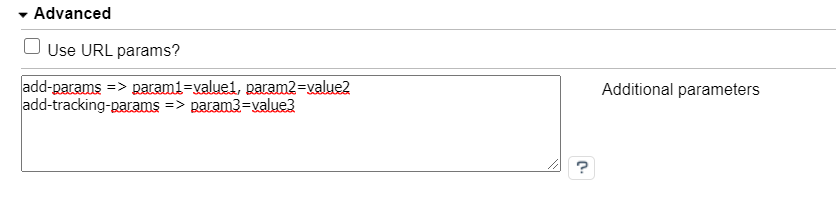
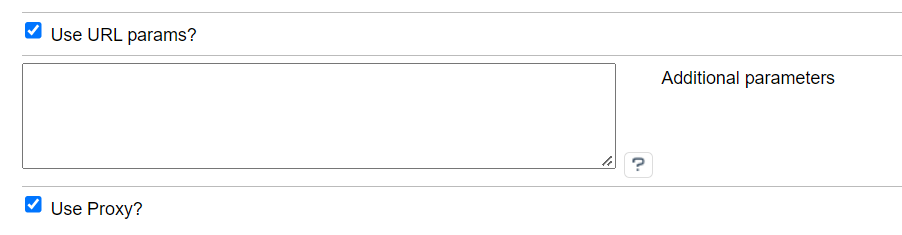
FFWEB-2400: proxy mechanism

diff --git a/src/Controller/SearchResultController.php b/src/Controller/SearchResultController.php
@@ -4,10 +4,94 @@ declare(strict_types=1);
 
 namespace Omikron\FactFinder\Oxid\Controller;
 
+use Exception;
+use Omikron\FactFinder\Communication\Client\ClientBuilder;
+use Omikron\FactFinder\Communication\Credentials;
 use OxidEsales\Eshop\Application\Controller\FrontendController;
+use OxidEsales\Eshop\Core\Registry;
+use Psr\Http\Message\ResponseInterface;
 
 class SearchResultController extends FrontendController
 {
     /** @var string */
     protected $_sThisTemplate = 'page/factfinder/result.tpl';
+
+    public function proxy(): void
+    {
+        $currentUrl = Registry::getUtilsUrl()->getCurrentUrl();
+        $endpoint   = $this->getEndpoint(Registry::getUtilsUrl()->getCurrentUrl());
+        $httpMethod = Registry::getUtilsServer()->getServerVar()['REQUEST_METHOD'];
+
+        try {
+            if (!$endpoint) {
+                throw new Exception('Endpoint missing');
+            }
+
+            $client = oxNew(ClientBuilder::class)
+                ->withServerUrl($this->getConfigParam('ffServerUrl'))
+                ->withCredentials($this->getCredentials())
+                ->withVersion($this->getConfigParam('ffApiVersion'))
+                ->build();
+
+            switch ($httpMethod) {
+                case 'GET':
+                    $query = (string) $this->removeOxidParams(parse_url($currentUrl, PHP_URL_QUERY));
+                    $this->showJsonAndExit($this->unwrapResponse($client->request('GET', $endpoint . '?' . $query)));
+
+                    break;
+                case 'POST':
+                    $this->showJsonAndExit($this->unwrapResponse($client->request('POST', $endpoint, [
+                        'body'    => $this->getRequest()->getContent(),
+                        'headers' => ['Content-Type' => 'application/json'],
+                    ])));
+
+                    break;
+                default:
+                    throw new Exception(sprintf('HTTP Method %s is not supported', $httpMethod));
+            }
+        } catch (Exception $e) {
+            $this->fallback();
+            echo json_encode(['error' => $e->getMessage()]);
+        }
+    }
+
+    protected function showJsonAndExit(string $jsonResponse): void
+    {
+        $oUtils   = Registry::getUtils();
+        $oUtils->setHeader('Content-Type: application/json');
+        header('Content-Type: application/json');
+        $oUtils->showMessageAndExit($jsonResponse);
+    }
+
+    protected function fallback(): void
+    {
+        //this function could be used to implement fallback logic in case of any communication error.
+        $this->showJsonAndExit('');
+    }
+
+    protected function getCredentials(): Credentials
+    {
+        return new Credentials(...array_map([$this, 'getConfigParam'], ['ffUsername', 'ffPassword', 'ffAuthPrefix', 'ffAuthPostfix']));
+    }
+
+    protected function getConfigParam(string $key)
+    {
+        return Registry::getConfig()->getConfigParam($key);
+    }
+
+    private function getEndpoint(string $currentUrl): string
+    {
+        preg_match('#/([A-Za-z]+\.ff|rest/v[^?]*)#', $currentUrl, $match);
+        return $match[1] ?? '';
+    }
+
+    private function removeOxidParams(string $queryString): string
+    {
+        return preg_replace('/(fnc|cl)=[A-Za-z0-9_]*&?/', '', $queryString);
+    }
+
+    private function unwrapResponse(ResponseInterface $response): string
+    {
+        return $response->getBody()->getContents();
+    }
 }

diff --git a/src/Model/Config/Communication.php b/src/Model/Config/Communication.php
@@ -39,7 +39,7 @@ class Communication implements ParametersSourceInterface
         $session  = Registry::getSession();
 
         $params = [
-            'url'                   => $this->getConfig('ffServerUrl'),
+            'url'                   => $this->getServerUrl(),
             'version'               => $this->getConfig('ffApiVersion'),
             'api'                   => $this->getConfig('ffApiVersion') ? 'v4' : '',
             'channel'               => $this->getChannel($this->view->getActiveLangAbbr()),
@@ -48,8 +48,8 @@ class Communication implements ParametersSourceInterface
             'currency-code'         => $this->view->getActCurrency()->name,
             'currency-fields'       => $this->getAdditionalCurrencyFields(),
             'currency-country-code' => $this->getLocale($this->view->getActiveLangAbbr()),
-            'search-immediate'      => $this->isSearch() || $this->useForCategories() ? 'true' : 'false',
-            'keep-url-params'       => 'cl',
+            'search-immediate'      => $this->isSearch() || $this->useForCategories() || $this->useProxy() ? 'true' : 'false',
+            'keep-url-params'       => 'true',
             'only-search-params'    => 'true',
             'use-browser-history'   => 'true',
             'category-page'         => $this->getConfig('ffApiVersion') === 'ng' && $this->useForCategories() ? $this->getCategoryPath($category) : null,
@@ -65,6 +65,11 @@ class Communication implements ParametersSourceInterface
     {
         $locales = ['de' => 'de-DE', 'en' => 'en-US'];
         return $locales[$abbr] ?? $locales['en'];
+    }
+
+    protected function getServerUrl(): string
+    {
+        return (string) $this->getConfig('ffUseProxy') ? 'index.php' : $this->getConfig('ffServerUrl');
     }
 
     /**
@@ -152,5 +157,10 @@ class Communication implements ParametersSourceInterface
         //important! do not modify this code
         return preg_replace('/\+/', '%2B',
             preg_replace('/\//', '%2F', preg_replace('/%/', '%25', $path)));
+    }
+
+    private function useProxy(): bool
+    {
+        return (bool) $this->getConfig('ffUseProxy');
     }
 }

diff --git a/src/metadata.php b/src/metadata.php
@@ -166,7 +166,6 @@ $aModule = [
             'position'    => $settingPosition++,
         ],
         [
-            'group'    => 'ffMain',
             'name'     => 'ffFieldRoles',
             'type'     => 'str',
             'value'    => '{"brand":"Brand","campaignProductNumber":"ProductNumber","deeplink":"Deeplink","description":"Description","displayProductNumber":"ProductNumber","imageUrl":"ImageUrl","masterArticleNumber":"ProductNumber","price":"Price","productName":"Name","trackingProductNumber":"ProductNumber"}',
@@ -184,6 +183,13 @@ $aModule = [
             'name'     => 'ffAddSearchParams',
             'type'     => 'aarr',
             'value'    => ['add-params' => '', 'add-tracking-params' => ''],
+            'position' => $settingPosition++,
+        ],
+        [
+            'group'    => 'ffAdvanced',
+            'name'     => 'ffUseProxy',
+            'type'     => 'bool',
+            'value'    => false,
             'position' => $settingPosition++,
         ],
         [

diff --git a/src/views/admin/de/ffwebcomponents_lang.php b/src/views/admin/de/ffwebcomponents_lang.php
@@ -22,6 +22,7 @@ $aLang = [
     'SHOP_MODULE_ffApiVersion_7.3'                => '7.3',
     'SHOP_MODULE_ffApiVersion_ng'                 => 'NG',
     'SHOP_MODULE_ffUseUrlParams'                  => 'URL-Parameter benutzen?',
+    'SHOP_MODULE_ffUseProxy'                      => 'Proxy benutzen?',
     'SHOP_MODULE_ffAddSearchParams'               => 'Zusätzliche Parameter',
     'HELP_SHOP_MODULE_ffAddSearchParams'          => 'Es gibt vier Parameter, die Sie einstellen können:`add-params`, `add-tracking-params`, `keep-url-params`, `parameter-whitelist`. Jede Parameterdefinition sollte in einer separaten Zeile stehen. Beispiel-Verwendung: add-params => customParam1 => value1, customParam2 => value2',
     'SHOP_MODULE_GROUP_ffFeatures'                => 'Features Settings',

diff --git a/src/views/admin/en/ffwebcomponents_lang.php b/src/views/admin/en/ffwebcomponents_lang.php
@@ -22,6 +22,7 @@ $aLang = [
     'SHOP_MODULE_ffApiVersion_7.3'                => '7.3',
     'SHOP_MODULE_ffApiVersion_ng'                 => 'NG',
     'SHOP_MODULE_ffUseUrlParams'                  => 'Use URL params?',
+    'SHOP_MODULE_ffUseProxy'                      => 'Use Proxy?',
     'SHOP_MODULE_ffAddSearchParams'               => 'Additional parameters',
     'HELP_SHOP_MODULE_ffAddSearchParams'          => 'There are four parameters you can set: `add-params`, `add-tracking-params`, `keep-url-params`, `parameter-whitelist`. Each parameter definition should be placed in separate row. Example usage : add-params => customParam1 => value1, customParam2 => value2',
     'SHOP_MODULE_GROUP_ffFeatures'                => 'Features Settings',

diff --git a/README.md b/README.md
@@ -18,6 +18,7 @@ customise them.
         - [Test Connection Button](#test-connection-button)
         - [Export Feed Button](#export-feed-button)
     - [Advanced Settings](#advanced-settings)
+        - [Proxy](#proxy)
     - [Features Settings](#features-settings)
         - [Using FACT-Finder® on category pages](#using-fact-finder-on-category-pages)
     - [Feed Settings](#feed-settings)
@@ -95,6 +96,52 @@ It is a one of possible ways of exporting feed. You can find more details in sec
 * `Additional parameters` - here you can define extra parameters for each of these properties: `add-params`, `add-tracking-params`, `keep-url-params`, `parameter-whitelist`.
 Values will be passed to the Web Components and used in communication.
 You can find more information about mentioned properties purposes in Web Components [documentation](https://web-components.fact-finder.de/api/3.x/ff-communication#tab=api).  
+* `Use Proxy` - check this option if you want each request sends by Web Components first reach the dedicated module controller which forwards it to the FACT-Finder.
+**Note:** If you plan to use proxy, consider reading below paragraph as it requires full instruction how to enable it properly. 
+ 
+#### Proxy
+Proxy feature adds a oxid controller which serves as a middleware between Web Components and FACT-Finder®.
+The data flow with proxy enabled is illustrated by the graph below.
+![Communication Overview](docs/assets/communication-overview.png "Communication Overview")
+Having a middleware controller brings many possibilities to customize the request and the response.
+In addition, if forwarded request does not result with a correct response, you can implement fallback strategy, starting from this point.
+
+```php
+   //src/Controller/SearchResultController.php:65
+   protected function fallback(): void
+    {
+        //this function could be used to implement fallback logic in case of any communication error.
+        $this->showJsonAndExit('');
+    }
+```
+
+To enable proxy you need to change your HTTP server configuration by adding two rewrite rules.
+This is necessary because Web Components appends a URL parts to the base URL making it unreadable by the Oxid.
+This is because Oxid use query parameters `cl` and `fnc` to instantiate specific controller and execute its function.
+There is no routing that use url parts, hence any AJAX requests must target index.php file with the aforementioned parameters.
+Without this rules any request will lead to 404.
+
+NGINX
+
+```nginx
+  location ~ \.ff  {
+      rewrite [a-zA-Z].ff /$1 break;
+  }
+
+  # the the version might need to be adjusted, depends on the API version you use
+  location ~ /rest/v  {
+      rewrite rest/v[0-9]/[a-zA-Z]*/ /$1 break;
+   }
+```
+
+APACHE
+
+```apache
+RewriteRule (.*\.ff)$ /$1 [L]
+
+# the the version might need to be adjusted, depends on the API version you use
+RewriteRule /rest/v[0-9] /$1 [L]
+```
 
 ### Features Settings
 ![Features Settings](docs/assets/features-settings.png "Features settings")

diff --git a/CHANGELOG.md b/CHANGELOG.md
@@ -2,6 +2,7 @@
 ## Unreleased
 ### Add
  - add Update FieldRoles functionality that allows user to store Field Roles received from FACT-Finder search response in shop configuration
+ - add proxy mechanism - more information in README file
  
 ### Fix
  - fix scrollTop top page is executed on search immediate event
